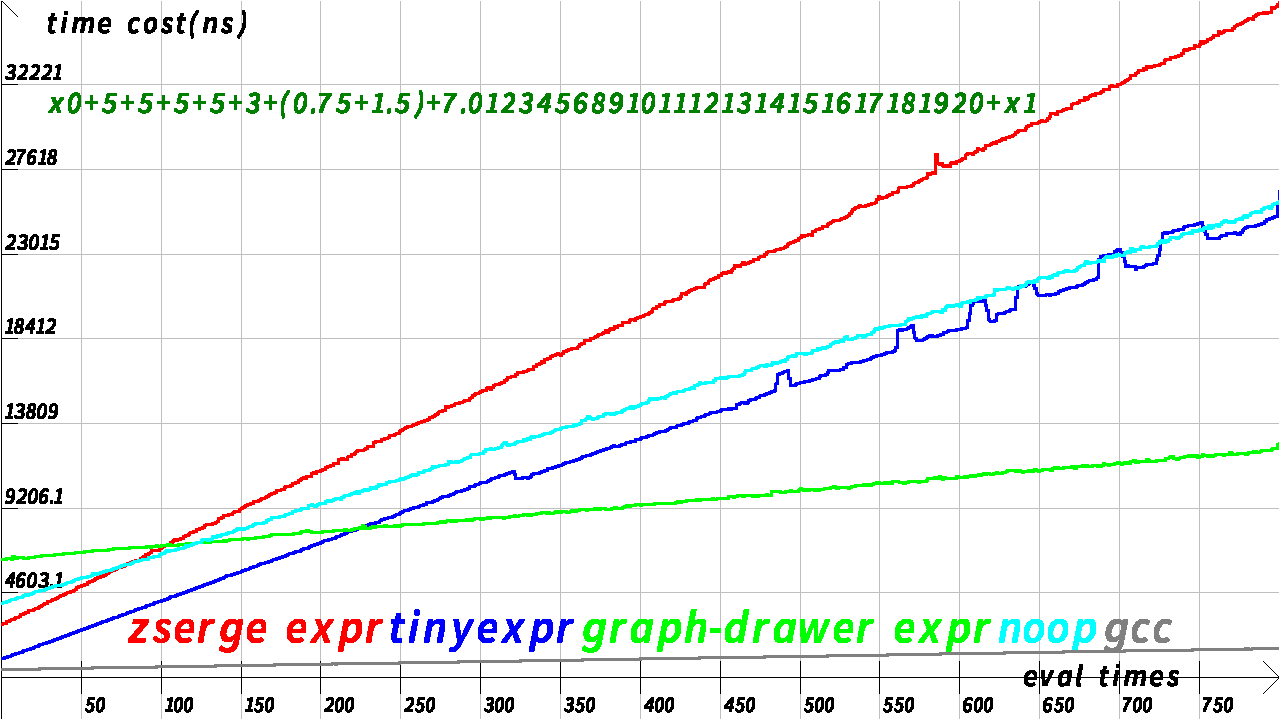
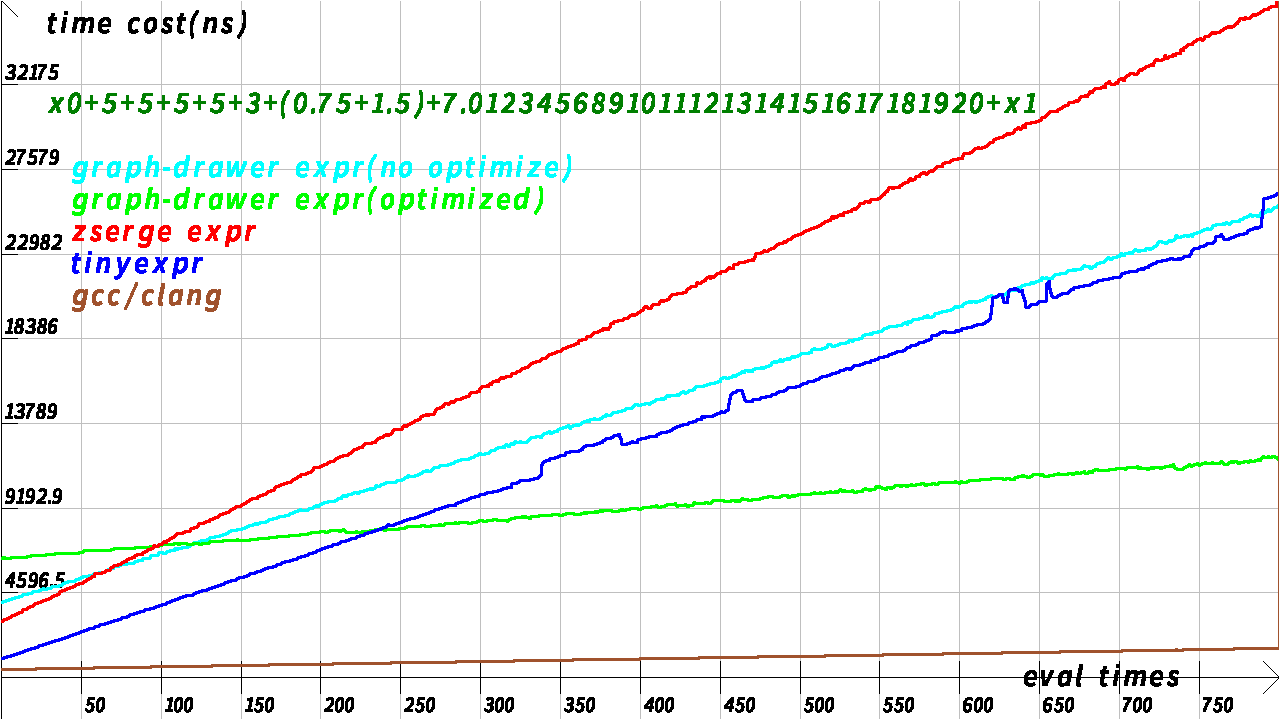
update curve

diff --git a/test/speedtest.c b/test/speedtest.c
@@ -136,10 +136,13 @@ struct result res[1];
 double maxt=0.0;
 void timecost(void (*fp)(size_t),size_t count,double *out){
 	double t=avg(fp,count,avgn);
-	if(t>maxt)
-		maxt=t;
-	if(out&&count<=MAXCOUNT)
+	if(out&&count<=MAXCOUNT){
+		if(t>maxt){
+			//fprintf(stderr,"max time: %lf -> %lf ,count: %zu\n",maxt,t,count);
+			maxt=t;
+		}
 		out[count]=t;
+	}
 }
 void timecost_write(void (*fp)(size_t),size_t count,double *out){
 	for(size_t i=0;i<=count;++i)
@@ -177,25 +180,23 @@ void draw_curve(const char *file,size_t count){
 	gp->connect=1;
 	graph_draw_grid(gp,0xffbfbfbf,0,(double)count/16,maxt/8);
 	graph_draw_axis(gp,0xff000000,0,(double)count/16,maxt/8,16);
-	l=128;
+	l=600-64;
 	y0=graph_ytop(gp,0.0)+1;
 #define DRAW(color,name,addr) \
-	l+=graph_draw_text_pixel(gp,color,0,name,4,48,l,y0+24)+8;\
-	graph_draw(gp,color,FBOLD,evalx,evaly,NULL,addr,0,MAXCOUNT,0.125,&current)
+	graph_draw_text_pixel(gp,color,0,name,4,32,72,l);\
+	l-=32;\
+	graph_draw(gp,color,FBOLD,evalx,evaly,NULL,addr,0,MAXCOUNT,1,&current)
+	DRAW(0xff00ffff,"graph-drawer expr(no optimize)",res->expn);
+	DRAW(0xff00ff00,"graph-drawer expr(optimized)",res->expr);
 	DRAW(0xffff0000,"zserge expr",res->zserge);
 	DRAW(0xff0000ff,"tinyexpr",res->tiny);
-	DRAW(0xff00ff00,"graph-drawer expr",res->expr);
-	DRAW(0xff00ffff,"noop",res->expn);
-	DRAW(0x7f000000,"gcc",res->gcc);
+	DRAW(0xffa0522d,"gcc/clang",res->gcc);
 
 	graph_draw_text_pixel(gp,0xff000000,0,"eval times",4,32,1024,y0-16);
 	graph_draw_text_pixel(gp,0xff000000,0,"time cost(ns)",4,32,48,680);
 	graph_draw_text_pixel(gp,0xff007f00,0,expression,4,32,48,600);
-//	graph_draw_text_pixel(gp,0xff2020ff,0,"Drawer",4,320,288,64);
-//	graph_draw_text_pixel(gp,0xff007f00,0,"Expression-to-image-and-audio converter",4,72,12,16);
 	graph_draw_box_pixel(gp,0xffffffff,0,0,0,gp->width-1,gp->height-1);
 	tofd=open(file,O_WRONLY_CREAT);
-	// the curve.png is converted by imagemagick.
 	assert(!fderr(tofd));
 	assert(write(tofd,gp->bm,gp->bm->size)==(ssize_t)gp->bm->size);
 	close(tofd);
@@ -266,6 +267,7 @@ break2:
 			for(size_t i=0;i<=count;++i)
 				printf("%zu,%.16lf,%.16lf,%.16lf\n",i,res->zserge[i],res->tiny[i],res->expr[i]);
 		}
+		fprintf(stderr,"max time: %lf\n",maxt);
 	}else
 		eval(count);
 	expr_symset_free(es);

diff --git a/src/main.c b/src/main.c
@@ -185,7 +185,7 @@ void writefile(const char *file,const void *buf,size_t sz){
 	if(!strcmp(file,"-")){
 		tofd=STDOUT_FILENO;
 	}else {
-		char *p=strrchr(file,'.');
+		char *p=(char *)(uintptr_t)strrchr(file,'.');
 		if(!p||strcmp(p,".bmp"))
 			warnx("unsupposed format \"%s\". writing .bmp format as default",p?p:file);
 		tofd=open(file,O_WRONLY_CREAT);

diff --git a/README.md b/README.md
@@ -272,7 +272,7 @@ Tested by test/speedtest.c
 |Can run in raw QEMU|No|No|Untested|No(Product maybe YES)|
 |Big-endian support|Yes|Yes|No|Yes|
 |Compile speed of source code(.c)|Fast|Fast|Slow|Very slow|
-|Library size(-O3)|18k|20k|348k(194k+154k)|\-|
+|Library size(-O3)|18k|20k|350k(196k+154k)|\-|
 |Library size(-Os)|17k|18k|305k(153k+152k)|\-|
 |Project type|standalone library|standalone library|backend library of graph-drawer|software|
 |Allow pass size of expression|Yes|No|Yes|\-|
